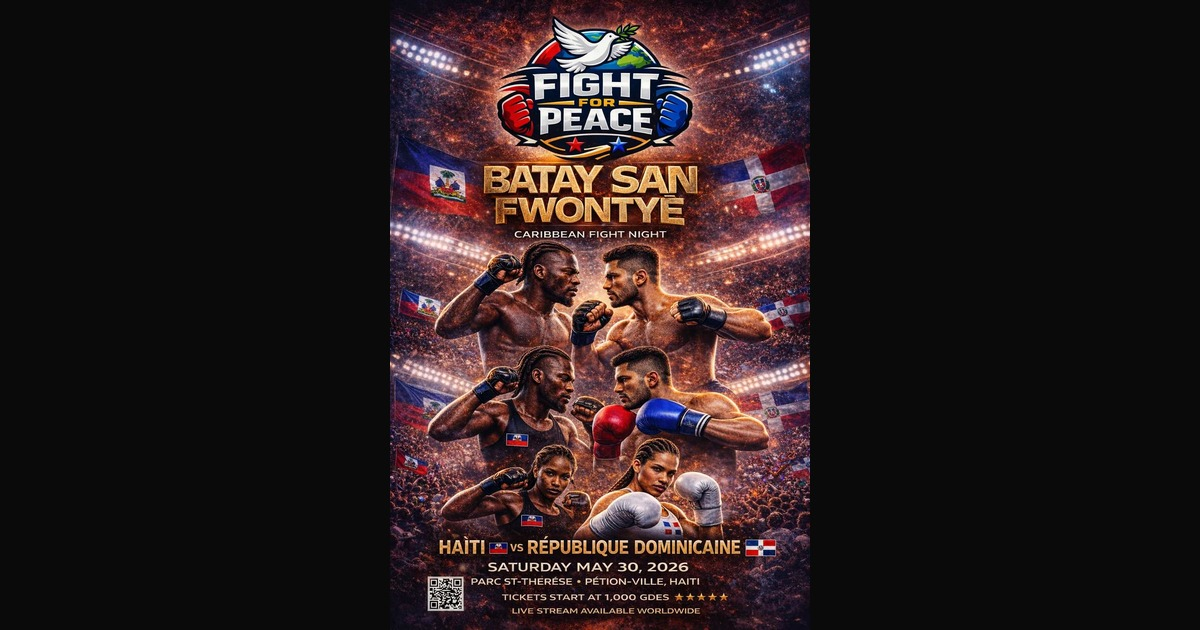
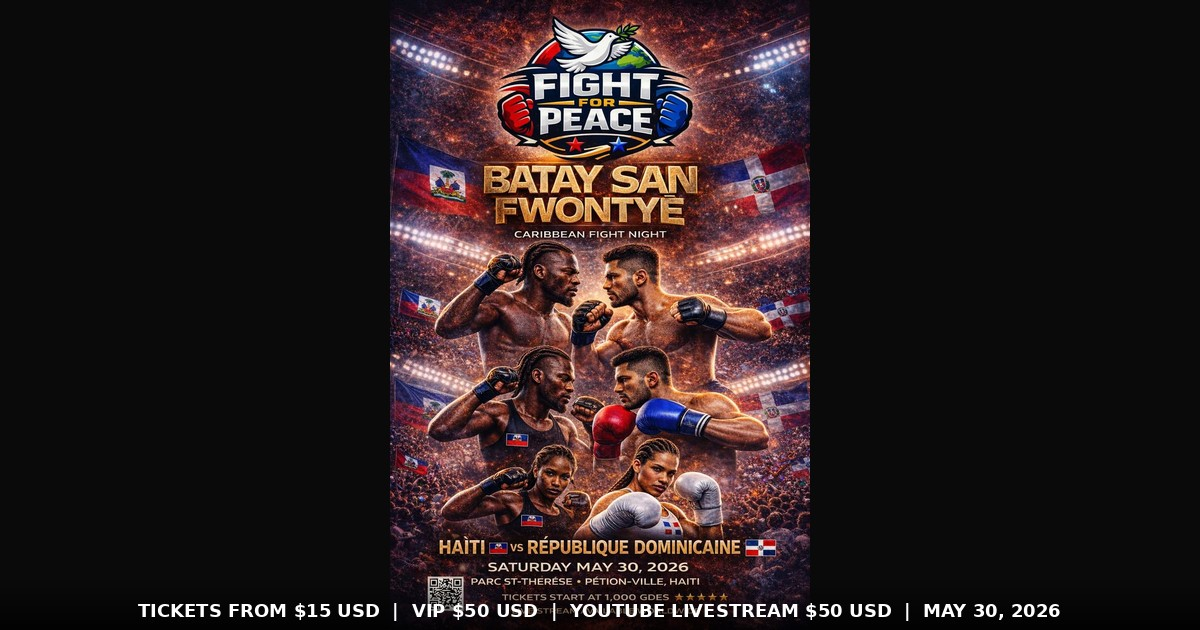
Change Live to YouTube Livestream in info bar, update OG preview with USD pricing

Changed region(s): [[0.1233, 0.9349, 0.74, 1.0], [0.7708, 0.9349, 0.8942, 0.9952]]

diff --git a/index.html b/index.html
@@ -954,7 +954,7 @@ body {
         <div class="info-item"><div class="label" data-i18n="info_venue">Lieu</div><div class="value">Parc Ste-Thérèse</div></div>
         <div class="info-item"><div class="label">Tickets</div><div class="value">$15 USD</div></div>
         <div class="info-item"><div class="label">VIP</div><div class="value">$50 USD</div></div>
-        <div class="info-item"><div class="label">Live</div><div class="value">$50 USD</div></div>
+        <div class="info-item"><div class="label">YouTube Livestream</div><div class="value">$50 USD</div></div>
         <div class="info-item"><div class="label">Main Event</div><div class="value">Haïti vs RD</div></div>
     </div>
 </div>
